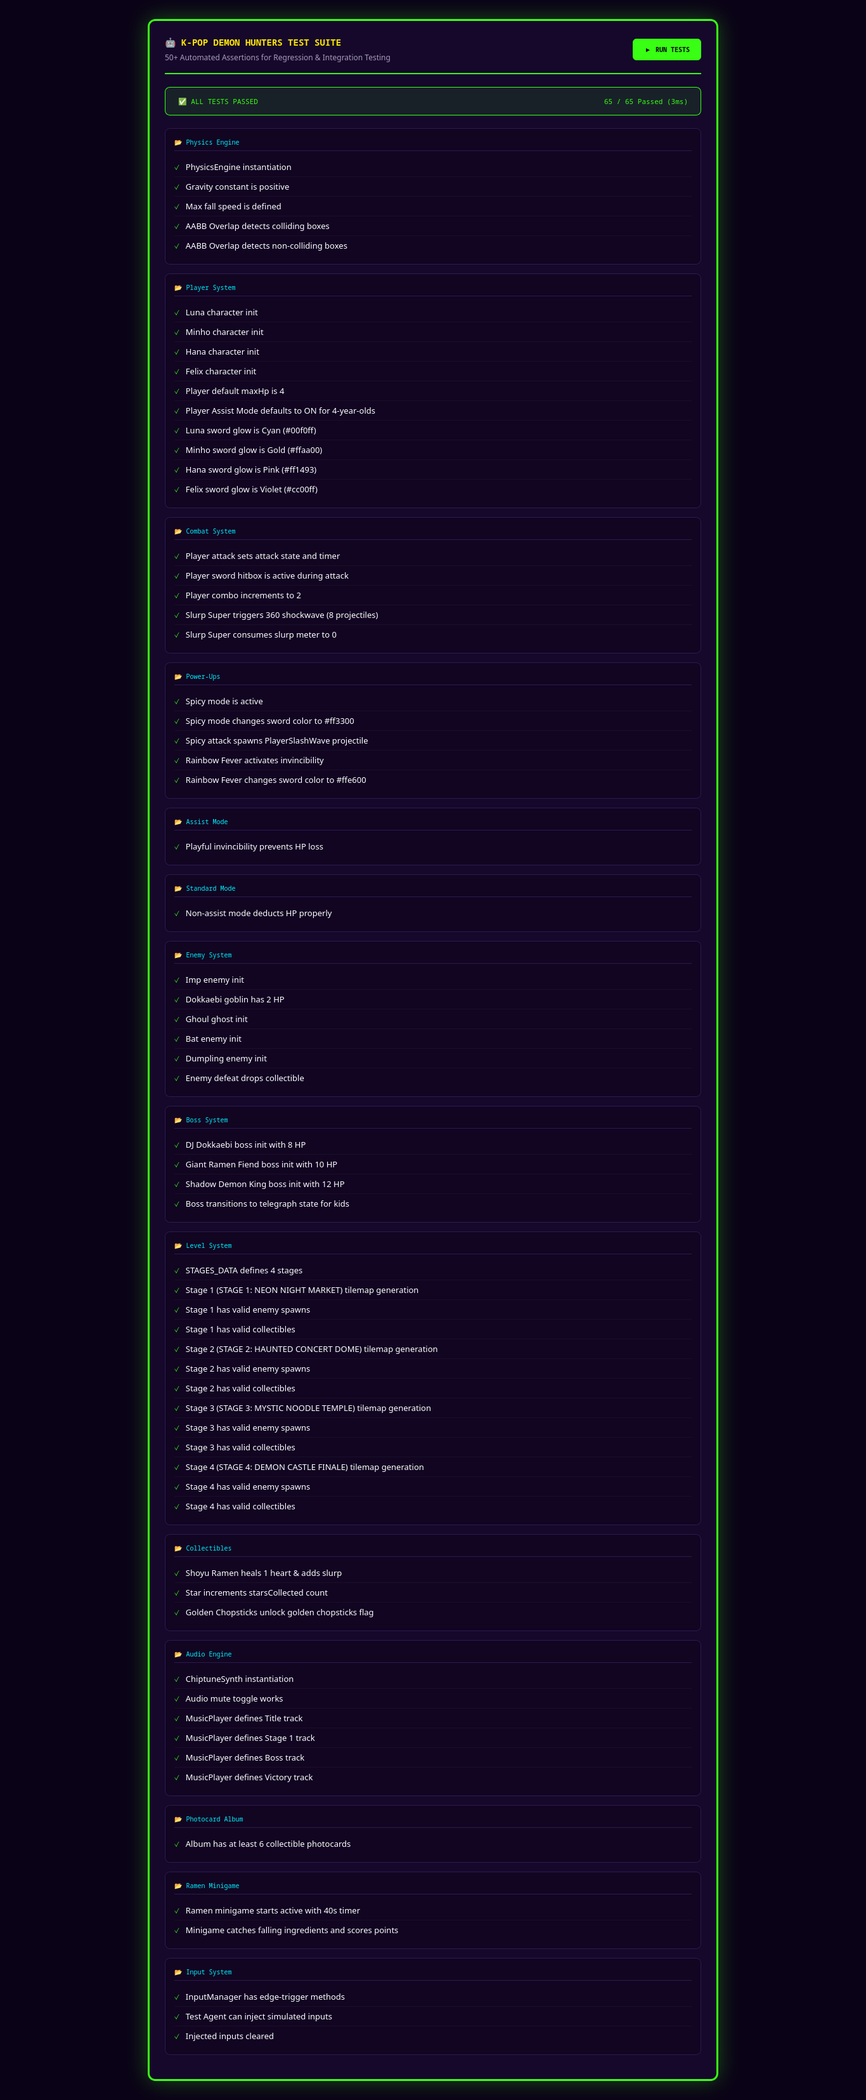
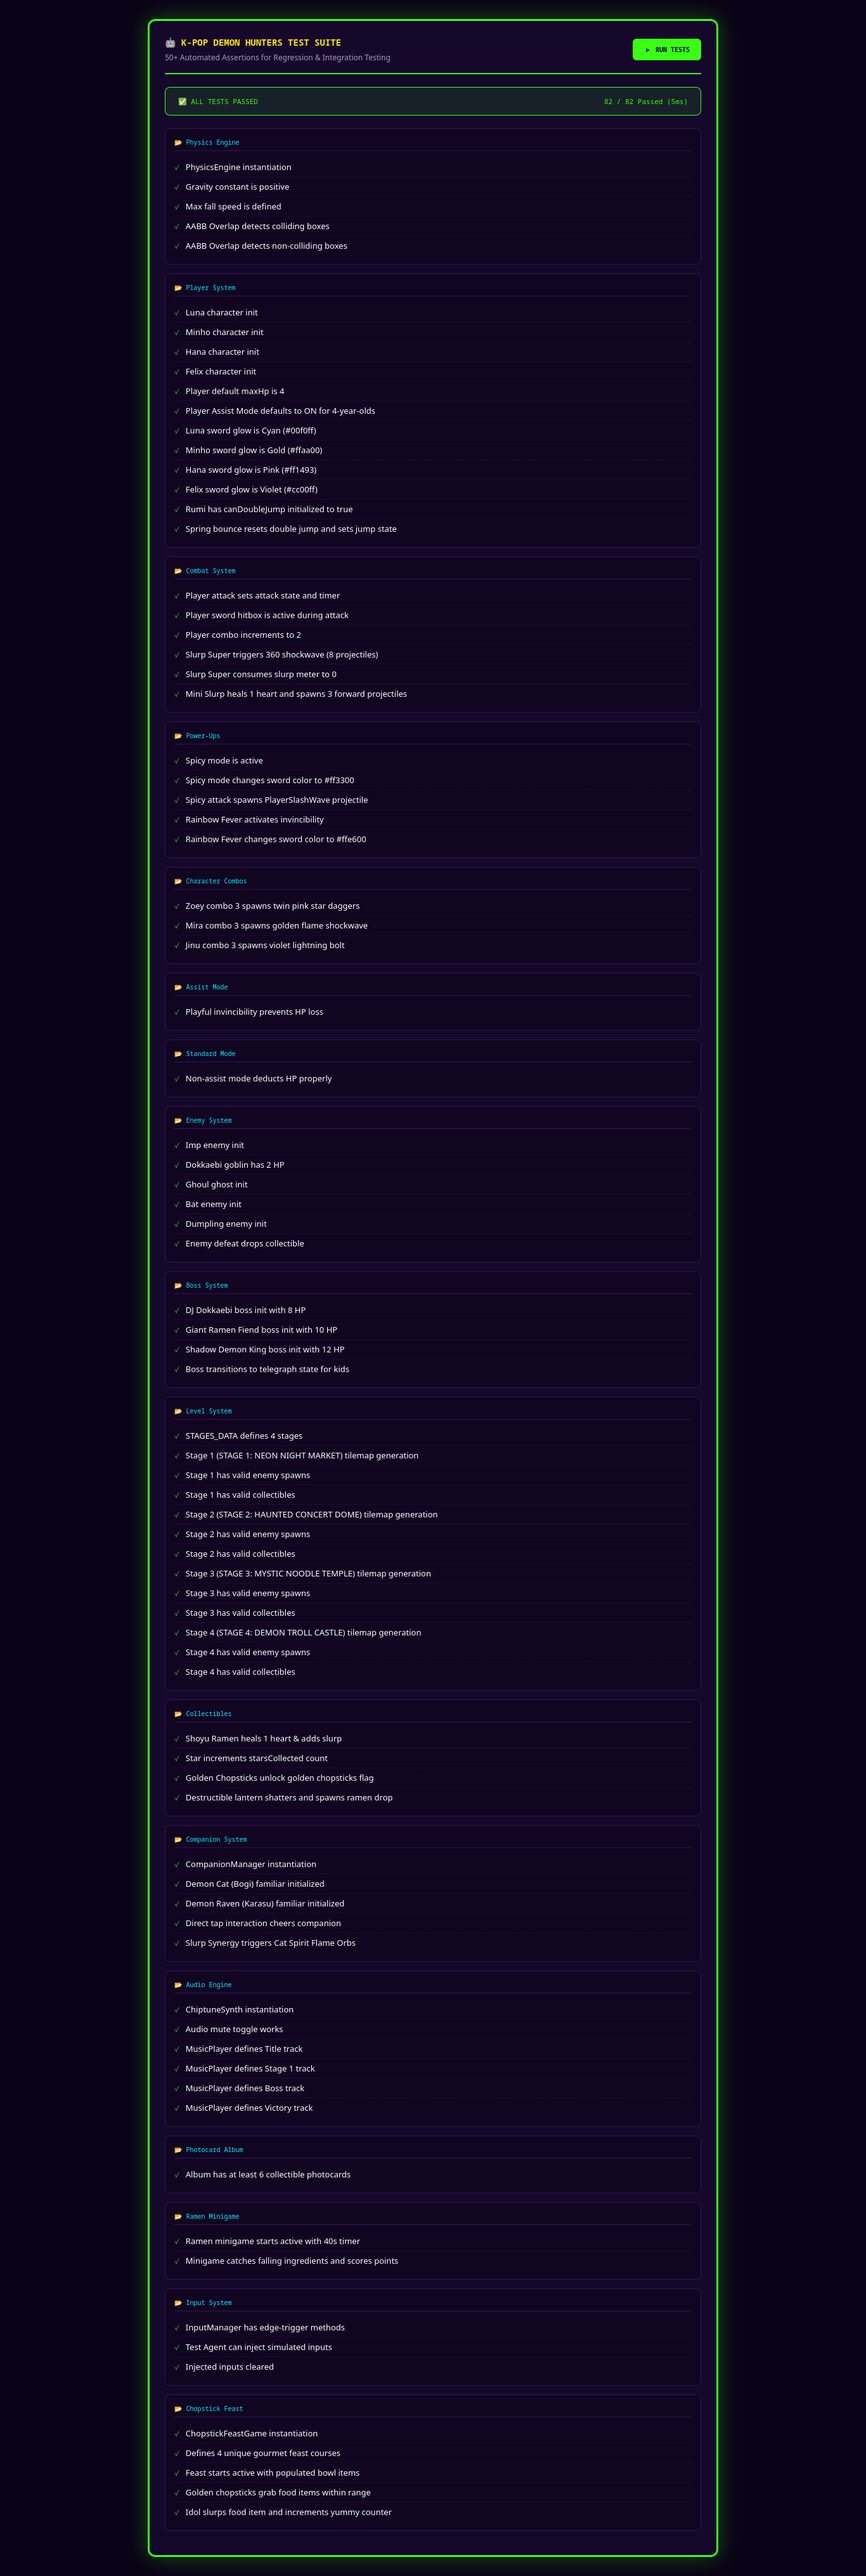
Fix ingredient picking in Chopstick Feast: direct tap snapping, generous touch radius, and auto-feed animation

Changed region(s): [[0.1845, 0.0, 0.8302, 0.9958]]

diff --git a/js/engine/test_agent.js b/js/engine/test_agent.js
@@ -407,7 +407,11 @@ class TestAgent {
         playPlayerHurt: () => {},
         playBossRoar: () => {},
         playChopsticks: () => {},
-        playWallKick: () => {}
+        playWallKick: () => {},
+        playVocalHyeah: () => {},
+        playVocalDaebak: () => {},
+        playLanternBurst: () => {},
+        playCrystalShatter: () => {}
       };
       const mockParticles = {
         spawnSlashTrail: () => {},
@@ -446,6 +450,39 @@ class TestAgent {
       pSlurp.triggerSlurpSuper(mockSFX, mockParticles, { shake: () => {} }, superProjList);
       assert('Combat System', 'Slurp Super triggers 360 shockwave (8 projectiles)', superProjList.length === 8);
       assert('Combat System', 'Slurp Super consumes slurp meter to 0', pSlurp.slurpMeter === 0);
+
+      // Mini Slurp Burst
+      const pMini = new Player('luna');
+      pMini.hp = 2;
+      pMini.slurpMeter = 20;
+      const miniProjList = [];
+      pMini.triggerMiniSlurp(mockSFX, mockParticles, miniProjList);
+      assert('Combat System', 'Mini Slurp heals 1 heart and spawns 3 forward projectiles', pMini.hp === 3 && miniProjList.length === 3);
+
+      // Character Signature 3rd Combo Moves
+      const pZoey = new Player('zoey');
+      pZoey.combo = 3;
+      const zoeyProjs = [];
+      pZoey.executeAttack(mockSFX, mockParticles, zoeyProjs);
+      assert('Character Combos', 'Zoey combo 3 spawns twin pink star daggers', zoeyProjs.length === 2 && zoeyProjs[0].color === '#ff1493');
+
+      const pMira = new Player('mira');
+      pMira.combo = 3;
+      const miraProjs = [];
+      pMira.executeAttack(mockSFX, mockParticles, miraProjs);
+      assert('Character Combos', 'Mira combo 3 spawns golden flame shockwave', miraProjs.length === 1 && miraProjs[0].color === '#ffaa00');
+
+      const pJinu = new Player('jinu');
+      pJinu.combo = 3;
+      const jinuProjs = [];
+      pJinu.executeAttack(mockSFX, mockParticles, jinuProjs);
+      assert('Character Combos', 'Jinu combo 3 spawns violet lightning bolt', jinuProjs.length === 1 && jinuProjs[0].color === '#cc00ff');
+
+      // Rumi Double Jump Mechanic
+      const pRumi = new Player('rumi');
+      assert('Player System', 'Rumi has canDoubleJump initialized to true', pRumi.canDoubleJump === true);
+      pRumi.onSpringBounce(mockSFX, mockParticles);
+      assert('Player System', 'Spring bounce resets double jump and sets jump state', pRumi.state === 'jump' && pRumi.canDoubleJump === true);
 
       // Assist Mode Damage vs Normal Mode Damage
       const pAssist = new Player('luna');
@@ -490,6 +527,7 @@ class TestAgent {
       assert('Boss System', 'Shadow Demon King boss init with 12 HP', bossKing.type === 'shadow_king' && bossKing.hp === 12);
 
       // Boss Attack Telegraph
+      bossDJ.isActive = true;
       bossDJ.attackTimer = 0;
       bossDJ.update(0.01, pNormal, [], mockParticles, mockSFX, { shake: () => {} });
       assert('Boss System', 'Boss transitions to telegraph state for kids', bossDJ.state === 'telegraph' && bossDJ.telegraphTimer > 0);
@@ -506,13 +544,14 @@ class TestAgent {
       });
 
       // -----------------------------------------------------------------------
-      // SUITE 5: Collectibles
+      // SUITE 5: Collectibles & Destructibles
       // -----------------------------------------------------------------------
       const colRamen = new Collectible(50, 50, 'ramen_normal');
       const colSpicy = new Collectible(50, 50, 'ramen_spicy');
       const colRainbow = new Collectible(50, 50, 'ramen_rainbow');
       const colStar = new Collectible(50, 50, 'star');
       const colChopsticks = new Collectible(50, 50, 'chopsticks');
+      const colLantern = new Collectible(50, 50, 'lantern');
 
       pLuna.hp = 2;
       colRamen.onCollect(pLuna, mockSFX, mockParticles);
@@ -524,8 +563,28 @@ class TestAgent {
       colChopsticks.onCollect(pLuna, mockSFX, mockParticles);
       assert('Collectibles', 'Golden Chopsticks unlock golden chopsticks flag', pLuna.hasGoldenChopsticks === true);
 
+      const lanternDrops = [];
+      colLantern.onCollect(pLuna, mockSFX, mockParticles, lanternDrops);
+      assert('Collectibles', 'Destructible lantern shatters and spawns ramen drop', colLantern.collected && lanternDrops.length > 0);
+
       // -----------------------------------------------------------------------
-      // SUITE 6: Audio Chiptune Synthesizer
+      // SUITE 6: Companions System (Demon Cat Bogi & Demon Raven Karasu)
+      // -----------------------------------------------------------------------
+      const companions = new CompanionManager();
+      assert('Companion System', 'CompanionManager instantiation', companions instanceof CompanionManager);
+      assert('Companion System', 'Demon Cat (Bogi) familiar initialized', companions.cat instanceof DemonCatCompanion);
+      assert('Companion System', 'Demon Raven (Karasu) familiar initialized', companions.raven instanceof DemonRavenCompanion);
+      
+      // Tap Cheer Interaction
+      const tapHandled = companions.handleTap(companions.cat.x, companions.cat.y, { x: 0, y: 0 }, mockSFX, mockParticles);
+      assert('Companion System', 'Direct tap interaction cheers companion', tapHandled === true);
+
+      // Slurp Synergy Super
+      companions.triggerSlurpSynergy(pLuna, [imp], bossDJ, [], mockSFX, mockParticles);
+      assert('Companion System', 'Slurp Synergy triggers Cat Spirit Flame Orbs', companions.projectiles.length >= 8);
+
+      // -----------------------------------------------------------------------
+      // SUITE 7: Audio Chiptune Synthesizer
       // -----------------------------------------------------------------------
       const synth = new ChiptuneSynth();
       assert('Audio Engine', 'ChiptuneSynth instantiation', synth instanceof ChiptuneSynth);
@@ -538,7 +597,7 @@ class TestAgent {
       assert('Audio Engine', 'MusicPlayer defines Victory track', music.getTrackData('victory').tempo > 0);
 
       // -----------------------------------------------------------------------
-      // SUITE 7: Photocard Album & Ramen Minigame
+      // SUITE 8: Photocard Album & Ramen Minigame
       // -----------------------------------------------------------------------
       const album = new PhotocardAlbum();
       assert('Photocard Album', 'Album has at least 6 collectible photocards', album.cards.length >= 6);
@@ -552,7 +611,7 @@ class TestAgent {
       assert('Ramen Minigame', 'Minigame catches falling ingredients and scores points', minigame.score === 35);
 
       // -----------------------------------------------------------------------
-      // SUITE 8: Input Edge-Trigger & Injection
+      // SUITE 9: Input Edge-Trigger & Injection
       // -----------------------------------------------------------------------
       const input = new InputManager();
       assert('Input System', 'InputManager has edge-trigger methods', typeof input.justLeft === 'function' && typeof input.justRight === 'function');
@@ -562,7 +621,7 @@ class TestAgent {
       assert('Input System', 'Injected inputs cleared', input.isJump() === false);
 
       // -----------------------------------------------------------------------
-      // SUITE 9: Chopstick Ramen Feast Interactive Engine & Courses
+      // SUITE 10: Chopstick Ramen Feast Interactive Engine & Courses
       // -----------------------------------------------------------------------
       const feastGame = new ChopstickFeastGame();
       assert('Chopstick Feast', 'ChopstickFeastGame instantiation', feastGame instanceof ChopstickFeastGame);

diff --git a/js/ui/chopstick_feast.js b/js/ui/chopstick_feast.js
@@ -177,34 +177,44 @@ class ChopstickFeastGame {
     if (input.isDown()) this.targetY += moveSpeed * dt;
 
     // Bounds Clamping (Keep inside dining view)
-    this.targetX = Math.max(100, Math.min(284, this.targetX));
-    this.targetY = Math.max(30, Math.min(185, this.targetY));
+    this.targetX = Math.max(80, Math.min(304, this.targetX));
+    this.targetY = Math.max(30, Math.min(195, this.targetY));
 
     // Smooth Lerp Chopstick Position
-    this.chopstickX += (this.targetX - this.chopstickX) * (dt * 14);
-    this.chopstickY += (this.targetY - this.chopstickY) * (dt * 14);
+    this.chopstickX += (this.targetX - this.chopstickX) * (dt * 18);
+    this.chopstickY += (this.targetY - this.chopstickY) * (dt * 18);
 
-    // Chopstick Pinch Trigger (Attack Button, Jump Button, Slurp Button, or Direct Click)
+    // Auto-lifting animated food item towards mouth (One-tap slurp animation)
+    if (this.isLifting && this.heldItem) {
+      this.targetY -= 140 * dt;
+      this.targetX += (192 - this.targetX) * (dt * 8);
+      if (this.chopstickY < 80) {
+        this.isLifting = false;
+        this.executeSlurp(sfx, particles, player);
+      }
+    }
+
+    // Chopstick Pinch Trigger (Attack Button, Jump Button, Slurp Button)
     const isPinchingNow = input.isAttack() || input.isJump() || input.isSlurp() || input.isTouchPressed;
 
     if (isPinchingNow && !this.isPinched) {
       this.isPinched = true;
-      this.tryGrabFood(sfx, particles);
+      this.tryGrabFood(this.targetX, this.targetY, sfx, particles);
     } else if (!isPinchingNow && this.isPinched) {
       this.isPinched = false;
-      // If holding an item and moved it up towards idol mouth (Y < 75), slurp it!
-      if (this.heldItem) {
-        if (this.chopstickY < 85) {
+      if (this.heldItem && !this.isLifting) {
+        if (this.chopstickY < 95) {
           this.executeSlurp(sfx, particles, player);
         } else {
-          // Drop back into bowl smoothly
+          // Drop or auto-lift
           this.heldItem = null;
         }
       }
     }
 
-    // Auto-Slurp when dragging food item directly up into mouth
-    if (this.heldItem && this.chopstickY < 70 && !this.isSlurping) {
+    // Auto-Slurp when dragging food item directly up into mouth area (Y < 90)
+    if (this.heldItem && this.chopstickY < 90 && !this.isSlurping) {
+      this.isLifting = false;
       this.executeSlurp(sfx, particles, player);
     }
 
@@ -217,22 +227,60 @@ class ChopstickFeastGame {
     }
   }
 
-  tryGrabFood(sfx, particles) {
+  tryGrabFood(pointerX, pointerY, sfx, particles) {
     if (this.heldItem) return;
 
-    // Check collision between chopstick tips and closest food item
-    const tipX = this.chopstickX;
-    const tipY = this.chopstickY;
+    // Use current pointer/target coordinates or chopstick tips
+    const searchX = pointerX !== undefined ? pointerX : this.targetX;
+    const searchY = pointerY !== undefined ? pointerY : this.targetY;
+
+    let closestItem = null;
+    let closestDist = 9999;
 
     for (const item of this.foodItems) {
       if (item.eaten) continue;
-      const dist = Math.hypot(item.x - tipX, item.y - tipY);
-      if (dist < item.radius + 10) {
-        this.heldItem = item;
-        if (sfx) sfx.playSlash(1);
-        if (particles) particles.spawnSparkleBurst(item.x, item.y, 6, '#ffe600');
-        break;
+      const dist = Math.hypot(item.x - searchX, item.y - searchY);
+      // Generous 38px touch radius for effortless 4-year-old interaction!
+      if (dist < 38 && dist < closestDist) {
+        closestDist = dist;
+        closestItem = item;
       }
+    }
+
+    if (closestItem) {
+      this.heldItem = closestItem;
+      this.isPinched = true;
+      this.chopstickX = closestItem.x;
+      this.chopstickY = closestItem.y - 8;
+      this.targetX = closestItem.x;
+      this.targetY = closestItem.y - 8;
+
+      if (sfx) {
+        sfx.playSlash(1);
+      }
+      if (particles) {
+        particles.spawnSparkleBurst(closestItem.x, closestItem.y, 8, '#ffe600');
+      }
+    }
+  }
+
+  handleDirectTap(x, y, sfx, particles, player) {
+    // If food is already held, tap feeds it immediately!
+    if (this.heldItem) {
+      this.executeSlurp(sfx, particles, player);
+      return;
+    }
+
+    // Try grabbing food at tap position
+    this.targetX = x;
+    this.targetY = y;
+    this.chopstickX = x;
+    this.chopstickY = y;
+    this.tryGrabFood(x, y, sfx, particles);
+
+    // If successfully grabbed by tap, trigger automatic smooth lift to mouth!
+    if (this.heldItem) {
+      this.isLifting = true;
     }
   }
 
@@ -242,8 +290,9 @@ class ChopstickFeastGame {
     const item = this.heldItem;
     item.eaten = true;
     this.heldItem = null;
+    this.isLifting = false;
     this.isSlurping = true;
-    this.slurpTimer = 0.45;
+    this.slurpTimer = 0.5;
     this.slurpCount++;
 
     // Satisfying sound & sparkles
@@ -255,7 +304,7 @@ class ChopstickFeastGame {
 
     if (particles) {
       particles.spawnRamenSlurpFX(192, 58);
-      particles.spawnSparkleBurst(192, 58, 20, '#ff007f');
+      particles.spawnSparkleBurst(192, 58, 24, '#ff007f');
     }
 
     // Heal player if present

diff --git a/js/main.js b/js/main.js
@@ -188,17 +188,20 @@ class GameApp {
 
     this.canvas.addEventListener('pointermove', handlePointerMove);
     this.canvas.addEventListener('pointerdown', (e) => {
-      handlePointerMove(e);
       if (this.state === 'chopstick_feast' && this.chopstickFeast) {
-        this.chopstickFeast.isPinched = true;
-        this.chopstickFeast.tryGrabFood(this.sfx, this.particles);
+        const rect = this.canvas.getBoundingClientRect();
+        const scaleX = this.virtualWidth / rect.width;
+        const scaleY = this.virtualHeight / rect.height;
+        const pointerX = (e.clientX - rect.left) * scaleX;
+        const pointerY = (e.clientY - rect.top) * scaleY;
+        this.chopstickFeast.handleDirectTap(pointerX, pointerY, this.sfx, this.particles, this.player);
       }
     });
     this.canvas.addEventListener('pointerup', () => {
       if (this.state === 'chopstick_feast' && this.chopstickFeast) {
         this.chopstickFeast.isPinched = false;
-        if (this.chopstickFeast.heldItem) {
-          if (this.chopstickFeast.chopstickY < 85) {
+        if (this.chopstickFeast.heldItem && !this.chopstickFeast.isLifting) {
+          if (this.chopstickFeast.chopstickY < 95) {
             this.chopstickFeast.executeSlurp(this.sfx, this.particles, this.player);
           } else {
             this.chopstickFeast.heldItem = null;
@@ -525,7 +528,7 @@ class GameApp {
         if (this.sfx) this.sfx.playStar();
       }
     } else if (this.state === 'chopstick_feast') {
-      this.chopstickFeast.setPointerPos(clickX, clickY, true);
+      this.chopstickFeast.handleDirectTap(clickX, clickY, this.sfx, this.particles, this.player);
     } else if (this.state === 'album') {
       if (clickX < this.virtualWidth * 0.3) {
         this.album.selectedCardIndex = (this.album.selectedCardIndex - 1 + this.album.cards.length) % this.album.cards.length;

diff --git a/js/entities/player.js b/js/entities/player.js
@@ -43,6 +43,7 @@ class Player {
 
     // Platforming Helpers (Kid-Friendly Ninja Gaiden feel)
     this.onGround = false;
+    this.canDoubleJump = this.charId === 'rumi' || this.charId === 'luna';
     this.coyoteTimer = 0;
     this.jumpBufferTimer = 0;
     this.touchingWallLeft = false;
@@ -302,8 +303,8 @@ class Player {
   }
 
   getSwordColor() {
-    if (this.spicyTimer > 0) return '#ff3300';
     if (this.rainbowFeverTimer > 0) return '#ffe600';
+    if (this.spicyTimer > 0) return '#ff3300';
     if (this.charId === 'mira' || this.charId === 'minho') return '#ffaa00';
     if (this.charId === 'zoey' || this.charId === 'hana') return '#ff1493';
     if (this.charId === 'jinu' || this.charId === 'felix') return '#cc00ff';

diff --git a/test/test_runner.html b/test/test_runner.html
@@ -134,6 +134,7 @@
   <script src="../js/entities/collectible.js"></script>
   <script src="../js/entities/enemy.js"></script>
   <script src="../js/entities/boss.js"></script>
+  <script src="../js/entities/companion.js"></script>
   <script src="../js/entities/player.js"></script>
   <script src="../js/levels/level_data.js"></script>
   <script src="../js/levels/level_manager.js"></script>
@@ -141,6 +142,7 @@
   <script src="../js/ui/menus.js"></script>
   <script src="../js/ui/album.js"></script>
   <script src="../js/ui/ramen_game.js"></script>
+  <script src="../js/ui/chopstick_feast.js"></script>
 
   <script>
     const agent = new TestAgent(null);

diff --git a/test/run_tests.py b/test/run_tests.py
@@ -81,6 +81,7 @@ def main():
         "js/engine/particles.js",
         "js/engine/test_agent.js",
         "js/ui/test_agent_ui.js",
+        "js/entities/companion.js",
         "js/entities/player.js",
         "js/entities/enemy.js",
         "js/entities/boss.js",
@@ -92,6 +93,7 @@ def main():
         "js/audio/sfx.js",
         "js/graphics/palette.js",
         "js/graphics/sprites.js",
+        "js/ui/chopstick_feast.js",
         "test/test_runner.html"
     ]
 
